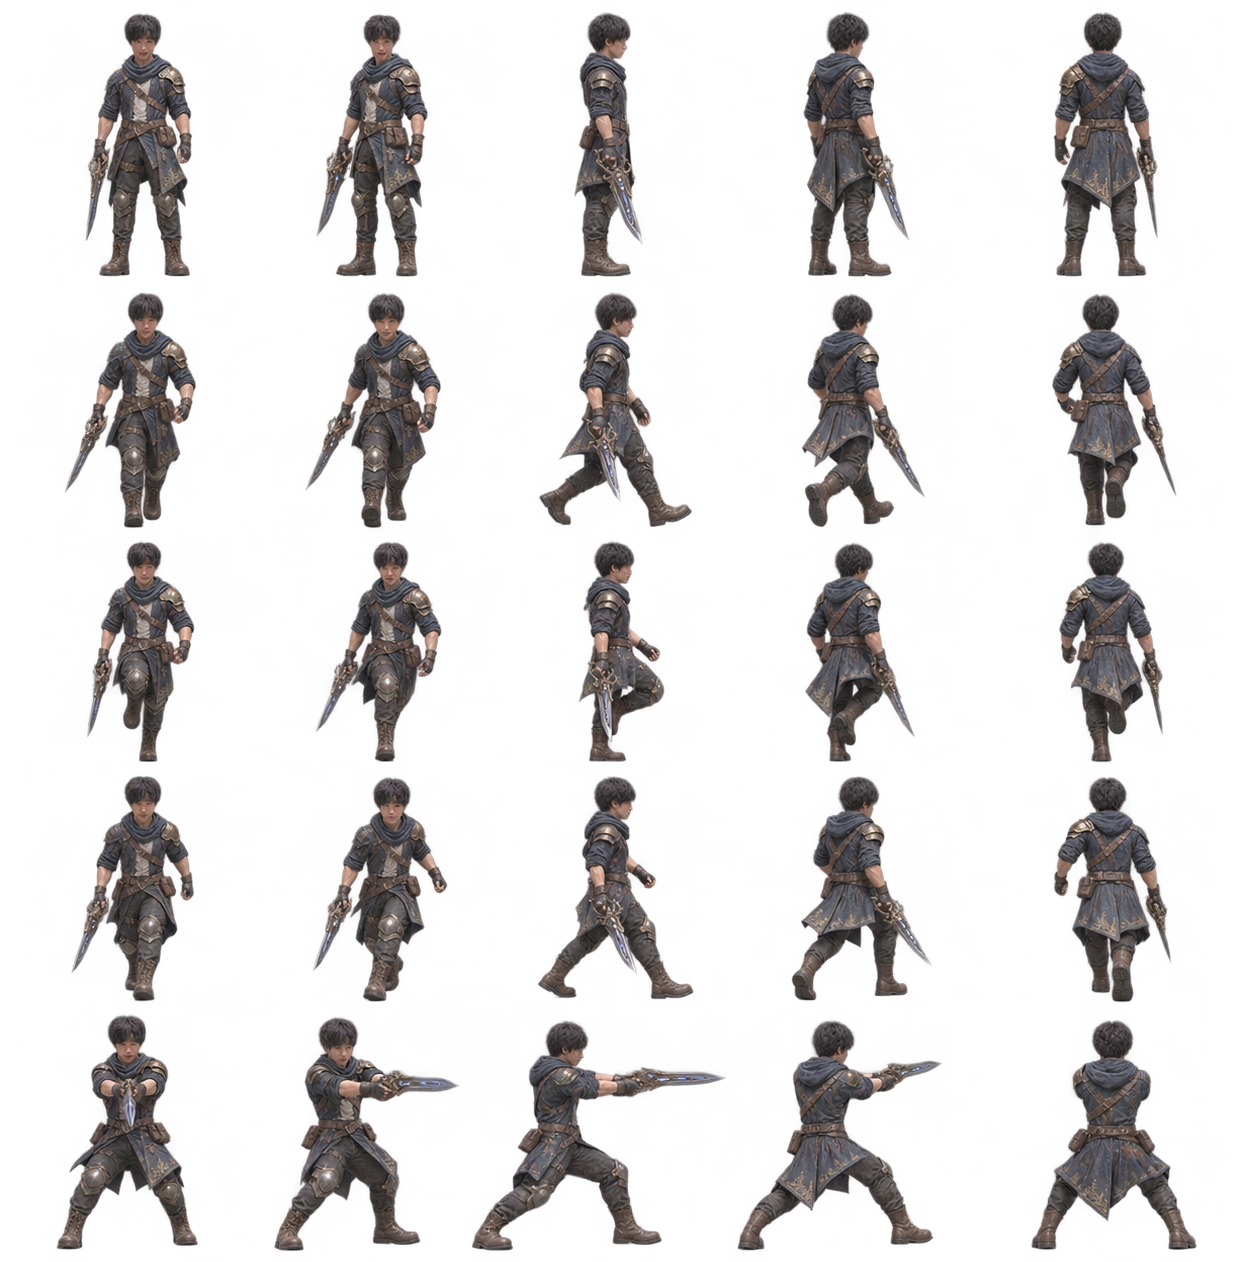
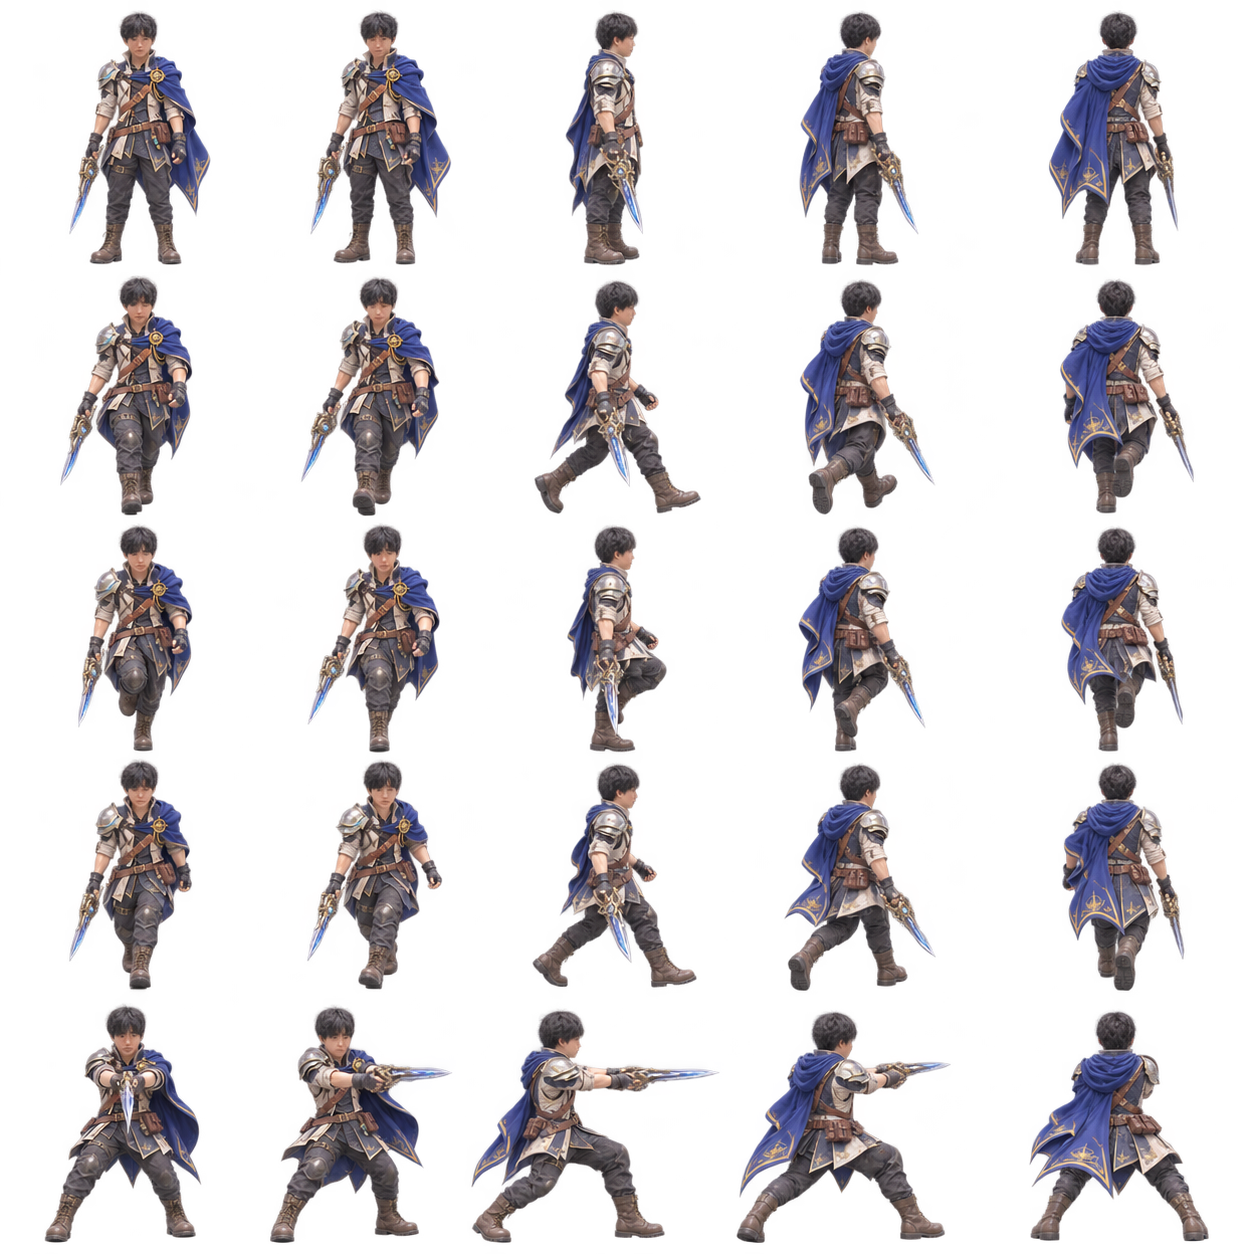
キャラクター変更

diff --git a/index.html b/index.html
@@ -5,15 +5,15 @@
 <meta charset="utf-8"/>
 <meta content="width=device-width, initial-scale=1, viewport-fit=cover" name="viewport"/>
 <title>常林暴サバイバー</title>
-<meta content="1.9.4" name="app-version"/>
-<link href="manifest.webmanifest?v=1.9.4" rel="manifest"/>
+<meta content="1.9.5" name="app-version"/>
+<link href="manifest.webmanifest?v=1.9.5" rel="manifest"/>
 <meta content="#101827" name="theme-color"/>
 <meta content="yes" name="mobile-web-app-capable"/>
 <meta content="yes" name="apple-mobile-web-app-capable"/>
 <meta content="常林暴" name="apple-mobile-web-app-title"/>
-<link href="apple-touch-icon.png?v=1.9.4" rel="apple-touch-icon"/>
-<link href="icon-192.png?v=1.9.4" rel="icon" type="image/png"/>
-<link href="style.css?v=1.9.4" rel="stylesheet"/>
+<link href="apple-touch-icon.png?v=1.9.5" rel="apple-touch-icon"/>
+<link href="icon-192.png?v=1.9.5" rel="icon" type="image/png"/>
+<link href="style.css?v=1.9.5" rel="stylesheet"/>
 <link href="https://fonts.googleapis.com/css2?family=Press+Start+2P&amp;family=Roboto:wght@700&amp;display=swap" rel="stylesheet"/>
 <script>
 // An update token is shared by HTML, CSS and local JavaScript, including unchanged filenames.
@@ -50,7 +50,7 @@ document.querySelectorAll('link[rel="stylesheet"]').forEach(link => {
 <p class="update-inline-status" data-update-status="" role="status"></p>
 <button data-info-dialog="overview-guide" type="button">ゲーム概要</button>
 <button data-info-dialog="play-guide" type="button">遊び方・用語ガイド</button>
-<button data-info-dialog="release-guide" hidden="" type="button"><span class="app-version">Ver.1.9.4</span> · 更新履歴</button>
+<button data-info-dialog="release-guide" hidden="" type="button"><span class="app-version">Ver.1.9.5</span> · 更新履歴</button>
 </div>
 <p aria-live="polite" class="status-message" id="auth-status"></p>
 <button class="install-game-button" type="button">ホーム画面に追加</button>
@@ -69,7 +69,7 @@ document.querySelectorAll('link[rel="stylesheet"]').forEach(link => {
 <div class="home-main">
 <section aria-label="選択中のキャラクター" class="home-character-panel">
 <p class="home-section-label">選択中のキャラクター</p>
-<div class="selected-character"><span class="hero-portrait" id="selected-character-image" aria-hidden="true" style="--hero-sheet:url('hero_rookie.png')"></span><span id="selected-character-name">見習い（基礎型）</span></div>
+<div class="selected-character"><span class="hero-portrait" id="selected-character-image" aria-hidden="true" style="--hero-sheet:url('hero_rookie.png?v=1.9.5')"></span><span id="selected-character-name">見習い（基礎型）</span></div>
 <p class="pop-note" id="home-next-goal"></p><button class="menu-btn" id="btn-equipment">装備ボックス</button><button class="menu-btn" id="btn-summon">召喚ガチャ（結晶 <span class="crystal-balance">0</span>）</button><button class="menu-btn" id="btn-training">キャラクター育成</button><button class="menu-btn shop-btn" id="btn-character">キャラクター選択</button>
 </section>
 <section aria-label="モード選択とメニュー" class="home-play-panel">
@@ -93,7 +93,7 @@ document.querySelectorAll('link[rel="stylesheet"]').forEach(link => {
 <p class="update-inline-status" data-update-status="" role="status"></p>
 <button data-info-dialog="overview-guide" type="button">ゲーム概要</button>
 <button data-info-dialog="play-guide" type="button">遊び方・用語ガイド</button>
-<button data-info-dialog="release-guide" hidden="" type="button"><span class="app-version">Ver.1.9.4</span> · 更新履歴</button>
+<button data-info-dialog="release-guide" hidden="" type="button"><span class="app-version">Ver.1.9.5</span> · 更新履歴</button>
 </div>
 <details class="home-settings"><summary>⚙ 設定・アカウント</summary><div class="settings-grid"><details class="control-settings"><summary>スマホ操作設定</summary>
 <label>スキルボタンの位置 <select id="control-side"><option value="right">右</option><option value="left">左</option></select></label>
@@ -310,24 +310,24 @@ document.querySelectorAll('link[rel="stylesheet"]').forEach(link => {
 <script src="https://www.gstatic.com/firebasejs/12.19.0/firebase-app-compat.js"></script>
 <script src="https://www.gstatic.com/firebasejs/12.19.0/firebase-auth-compat.js"></script>
 <script src="https://www.gstatic.com/firebasejs/12.19.0/firebase-firestore-compat.js"></script>
-<script data-game-src="firebase-config.js?v=1.9.4" type="application/json"></script>
-<script data-game-src="audio.js?v=1.9.4" type="application/json"></script>
-<script data-game-src="presentation.js?v=1.9.4" type="application/json"></script>
-<script data-game-src="stages.js?v=1.9.4" type="application/json"></script>
-<script data-game-src="equipment.js?v=1.9.4" type="application/json"></script>
-<script data-game-src="training.js?v=1.9.4" type="application/json"></script>
-<script data-game-src="adventure.js?v=1.9.4" type="application/json"></script>
-<script data-game-src="forge.js?v=1.9.4" type="application/json"></script>
-<script data-game-src="heroes.js?v=1.9.4" type="application/json"></script>
-<script data-game-src="skill-effects.js?v=1.9.4" type="application/json"></script>
-<script data-game-src="script.js?v=1.9.4" type="application/json"></script>
+<script data-game-src="firebase-config.js?v=1.9.5" type="application/json"></script>
+<script data-game-src="audio.js?v=1.9.5" type="application/json"></script>
+<script data-game-src="presentation.js?v=1.9.5" type="application/json"></script>
+<script data-game-src="stages.js?v=1.9.5" type="application/json"></script>
+<script data-game-src="equipment.js?v=1.9.5" type="application/json"></script>
+<script data-game-src="training.js?v=1.9.5" type="application/json"></script>
+<script data-game-src="adventure.js?v=1.9.5" type="application/json"></script>
+<script data-game-src="forge.js?v=1.9.5" type="application/json"></script>
+<script data-game-src="heroes.js?v=1.9.5" type="application/json"></script>
+<script data-game-src="skill-effects.js?v=1.9.5" type="application/json"></script>
+<script data-game-src="script.js?v=1.9.5" type="application/json"></script>
 <dialog aria-labelledby="install-guide-title" class="persistent-panel" id="install-guide"><header class="persistent-panel-header"><h2 id="install-guide-title">ホーム画面に追加</h2><form method="dialog"><button aria-label="ホーム画面に追加を閉じる" class="persistent-close" type="submit">✕ 閉じる</button></form></header><div class="persistent-panel-content">
 
 <p id="install-guide-text"></p>
 <p>追加後はアイコンから起動できます。ログイン・ランキングにはインターネット接続が必要です。初回は再ログインを求められる場合があります。</p>
 
 </div></dialog>
-<script data-game-src="install.js?v=1.9.4" type="application/json"></script>
+<script data-game-src="install.js?v=1.9.5" type="application/json"></script>
 <dialog aria-labelledby="play-guide-title" class="game-info-dialog persistent-panel" id="play-guide"><header class="persistent-panel-header"><h2 id="play-guide-title">遊び方・用語ガイド</h2><form method="dialog"><button aria-label="遊び方・用語ガイドを閉じる" class="persistent-close" type="submit">✕ 閉じる</button></form></header><div class="persistent-panel-content">
 
 <p class="guide-lead">迫ってくる敵を避け、ボスを倒してWAVE100クリアを目指そう！</p>
@@ -398,7 +398,8 @@ document.querySelectorAll('link[rel="stylesheet"]').forEach(link => {
 </div></dialog>
 <dialog aria-labelledby="release-guide-title" class="game-info-dialog persistent-panel" id="release-guide"><header class="persistent-panel-header"><h2 id="release-guide-title">更新履歴</h2><form method="dialog"><button aria-label="更新履歴を閉じる" class="persistent-close" type="submit">✕ 閉じる</button></form></header><div class="persistent-panel-content">
 
-<p class="guide-lead">いま開いている版：<strong class="app-version">Ver.1.9.4</strong></p>
+<p class="guide-lead">いま開いている版：<strong class="app-version">Ver.1.9.5</strong></p>
+<article><h3>Ver.1.9.5</h3><p>操作キャラ5人の衣装を刷新。ホーム・キャラクター選択・育成の立ち絵と、戦闘中の歩行・攻撃が同じ装いになりました。</p></article>
 <article><h3>Ver.1.9.4</h3><p>スマホで立ち絵の上に「？」が出る不具合を修正。キャラクター選択・ホーム・育成に反映。</p></article>
 <article><h3>Ver.1.9.3</h3><p>大型スキルの演出時間を延長。場面別BGM、4スキルの専用音、打楽器と環境音を追加。</p></article><article><h3>Ver.1.9.2</h3><p>各画面の閉じるボタンを右上に常時表示。4種類のスキル専用イラストと、発動時の専用エフェクトを追加。</p></article><article><h3>Ver.1.9.1</h3><p>8方向の移動・攻撃モーション、歩行の連続動作、3つの強化画面の専用イラストを追加。初期発射間隔を約1秒に調整。</p></article>
 <article><h3>Ver.1.9.0</h3><p>見習い＋4体のコイン解放。キャラ固有弾、方向・攻撃・被弾モーション、専用育成を追加。旧4体の専用育成・解放をリセットし、見習いから開始。コイン・装備・記録は継続。Firestoreルールの更新が必要です。</p></article>
@@ -484,14 +485,14 @@ document.querySelectorAll('link[rel="stylesheet"]').forEach(link => {
 <dialog aria-labelledby="equipment-probability-title" class="game-info-dialog equipment-dialog persistent-panel" id="equipment-probability-dialog"><header class="persistent-panel-header"><h2 id="equipment-probability-title">排出率・特殊スキルの付与確率</h2><form method="dialog"><button aria-label="排出率・特殊スキルの付与確率を閉じる" class="persistent-close">✕ 閉じる</button></form></header><div class="persistent-panel-content">
 <div class="equipment-probability-scroll" id="equipment-probability-content"></div>
 </div></dialog>
-<script data-game-src="guide.js?v=1.9.4" type="application/json"></script>
+<script data-game-src="guide.js?v=1.9.5" type="application/json"></script>
 <dialog aria-labelledby="update-game-title" class="game-info-dialog persistent-panel" id="update-game-dialog"><header class="persistent-panel-header"><h2 id="update-game-title">最新版に更新</h2><button aria-label="最新版に更新を閉じる" class="persistent-close" id="update-game-close" type="button">✕ 閉じる</button></header><div class="persistent-panel-content">
 
 <p aria-live="polite" id="update-game-status" role="status"></p>
 <p>ログイン情報・コイン・育成データは残ります。公開直後は、反映まで少し待ってから再度お試しください。</p>
 
 </div></dialog>
-<script data-game-src="update.js?v=1.9.4" type="application/json"></script>
+<script data-game-src="update.js?v=1.9.5" type="application/json"></script>
 <script>
 (async () => {
     for (const source of document.querySelectorAll('script[data-game-src]')) {

diff --git a/heroes.js b/heroes.js
@@ -14,7 +14,17 @@ function heroPurchase(id){
 }
 let heroFacing=0,heroShotUntil=0,heroHurtUntil=0,heroShots=0,heroAttackAngle=0,heroLastAwakened=-Infinity;
 function heroResetCombat(){heroFacing=0;heroShots=0;heroShotUntil=0;heroHurtUntil=0;heroLastAwakened=gameNow();heroSetPose();document.querySelectorAll('.hero-fx').forEach(e=>e.remove());}
-const HERO_MOTION_FRAMES={"rookie":{"size":[1246,1263],"frames":[[95,14,103,293],[335,14,96,294],[588,16,67,292],[817,16,82,291],[1051,16,101,291],[91,324,107,268],[332,327,101,264],[545,330,157,257],[810,329,108,262],[1050,328,109,263],[96,608,100,251],[335,607,98,252],[593,609,77,250],[818,610,94,248],[1048,609,103,249],[95,872,100,209],[332,872,109,209],[542,875,141,206],[787,876,122,204],[1053,875,101,206],[84,1092,125,168],[324,1093,124,167],[548,1094,151,166],[777,1093,140,166],[1039,1093,121,166]]},"balance":{"size":[1246,1262],"frames":[[85,13,108,264],[316,14,112,263],[574,13,69,264],[803,12,106,265],[1053,12,105,265],[65,292,132,236],[306,293,136,236],[539,293,153,235],[801,294,124,234],[1052,294,124,232],[87,541,108,222],[316,542,126,220],[579,542,86,220],[805,543,110,219],[1059,543,104,220],[71,776,123,226],[313,777,135,225],[537,776,157,224],[791,776,140,225],[1054,777,117,226],[56,1015,142,235],[274,1017,224,235],[498,1021,250,230],[748,1021,194,230],[1031,1020,166,231]]},"power":{"size":[1247,1261],"frames":[[88,10,106,242],[325,10,112,242],[566,10,97,242],[808,10,109,242],[1050,11,115,241],[85,263,123,238],[322,264,127,236],[543,265,130,233],[788,265,128,234],[1045,266,123,233],[87,510,118,239],[323,511,126,237],[545,512,119,236],[782,513,131,235],[1044,514,120,234],[86,762,125,237],[323,762,130,237],[536,762,135,236],[794,765,126,233],[1043,765,124,233],[60,1014,156,230],[298,1015,152,229],[499,1020,249,222],[748,1022,219,215],[1019,1017,169,224]]},"speed":{"size":[1246,1262],"frames":[[108,10,127,278],[335,10,124,279],[563,11,115,278],[794,10,126,279],[1028,11,117,277],[109,302,118,250],[334,302,114,250],[538,303,152,246],[778,303,137,248],[1030,303,110,247],[114,560,109,234],[336,560,110,234],[560,560,114,233],[783,561,124,233],[1028,561,106,233],[109,803,116,228],[326,803,121,228],[544,803,144,228],[778,804,129,227],[1031,803,105,228],[88,1043,144,211],[307,1043,145,212],[519,1044,203,212],[763,1044,162,211],[1013,1044,144,211]]},"tank":{"size":[1263,1246],"frames":[[84,10,129,241],[321,10,127,241],[593,10,81,241],[823,9,117,241],[1059,10,131,239],[70,263,148,236],[315,264,145,235],[565,266,139,229],[813,265,142,233],[1056,264,143,235],[73,511,139,234],[320,510,134,235],[591,511,98,234],[814,510,138,234],[1056,510,148,234],[70,755,144,231],[312,755,147,230],[557,755,149,225],[813,754,146,231],[1054,754,144,231],[58,1000,159,234],[307,996,167,239],[528,998,187,233],[779,1003,179,225],[1047,1002,164,230]]}};
+// Wardrobe art is cached once per page and follows the game's manual-update token.
+const HERO_ART_VERSION = '1.9.5';
+const heroArtUrls = new Map();
+function heroArtBackground(file) {
+    if (!heroArtUrls.has(file)) {
+        const src = gameAssetUrl(file + '?v=' + HERO_ART_VERSION);
+        heroArtUrls.set(file, 'url("' + src + '")');
+    }
+    return heroArtUrls.get(file);
+}
+const HERO_MOTION_FRAMES={"rookie":{"size":[1254,1254],"frames":[[92,46,114,256,47.8],[325,46,112,257,48.7],[588,47,57,256,49.1],[814,47,99,256,46.0],[1056,48,112,255,50.4],[75,323,127,244,52.0],[308,322,133,245,49.6],[529,324,174,240,49.7],[797,324,126,242,40.9],[1055,325,132,240,38.8],[89,577,114,231,52.6],[317,576,122,232,50.8],[580,578,89,228,35.0],[808,578,112,229,35.3],[1058,578,122,230,38.9],[79,816,122,224,50.8],[312,814,133,225,51.5],[529,819,174,219,50.3],[790,818,143,221,44.8],[1060,818,120,221,45.8],[65,1053,143,193,49.7],[287,1053,151,193,47.4],[491,1056,191,190,45.8],[744,1055,191,190,49.5],[1026,1054,169,191,49.7]]},"balance":{"size":[1254,1254],"frames":[[68,11,144,256,46.9],[309,10,144,257,45.8],[564,11,81,256,56.8],[798,11,122,256,49.2],[1047,10,133,257,53.0],[59,276,135,241,57.0],[299,276,142,242,51.1],[533,279,170,237,50.0],[798,279,138,237,38.8],[1058,278,138,237,39.9],[76,524,118,229,55.9],[306,524,136,230,53.3],[565,525,104,229,44.7],[797,526,130,227,37.7],[1059,526,126,227,42.9],[67,759,127,233,54.7],[305,759,139,232,52.5],[531,763,168,226,49.4],[783,762,154,231,41.6],[1060,762,126,231,45.2],[43,1004,160,241,48.1],[268,1005,186,240,40.6],[470,1009,251,236,38.8],[735,1010,217,235,48.2],[1028,1010,183,233,50.0]]},"power":{"size":[1254,1254],"frames":[[74,11,132,241,50.8],[311,11,127,241,53.1],[550,11,104,241,46.2],[785,10,118,243,47.9],[1031,11,125,242,49.2],[72,258,141,240,39.8],[313,260,136,235,39.3],[531,259,135,232,52.2],[764,261,141,232,51.4],[1029,261,126,236,63.5],[75,506,130,232,37.7],[313,508,126,230,39.3],[532,507,123,232,60.6],[771,507,133,232,60.2],[1030,508,122,231,65.2],[75,750,137,234,33.6],[309,750,141,229,38.1],[522,751,135,232,62.6],[772,750,133,233,54.9],[1019,751,135,233,66.3],[56,998,165,235,51.8],[289,999,158,234,60.8],[487,1004,230,228,38.3],[727,1004,227,227,43.2],[1002,1001,176,231,46.0]]},"speed":{"size":[1254,1254],"frames":[[87,10,126,266,45.6],[309,9,122,267,49.7],[548,10,115,267,45.7],[791,9,116,267,53.4],[1030,10,114,264,54.8],[86,282,127,261,45.3],[302,282,133,261,48.5],[525,283,161,259,49.4],[771,282,141,261,58.5],[1033,281,117,261,52.1],[92,547,113,244,42.9],[315,546,112,244,42.9],[544,546,117,243,38.9],[776,547,124,243,54.8],[1042,546,100,243,52.0],[90,794,117,238,42.3],[313,794,120,239,47.9],[529,794,151,238,49.0],[778,794,128,238,57.8],[1035,794,109,238,55.0],[71,1038,144,212,49.7],[295,1038,149,214,45.6],[512,1039,180,213,43.3],[758,1039,159,213,44.3],[1010,1038,158,213,49.7]]},"tank":{"size":[1254,1254],"frames":[[65,9,154,245,52.5],[309,8,150,246,49.3],[574,9,97,245,41.2],[799,9,132,244,48.9],[1036,9,151,244,45.7],[52,260,170,246,53.8],[299,260,161,245,52.2],[544,262,162,243,49.4],[790,260,156,246,45.8],[1034,260,159,246,48.1],[67,511,148,238,47.3],[317,510,142,238,56.7],[575,511,104,237,34.1],[796,512,138,236,34.4],[1037,513,155,235,51.3],[60,754,156,239,56.1],[298,754,161,239,54.4],[536,755,169,233,49.4],[797,756,152,237,39.1],[1034,756,155,237,44.9],[45,999,178,248,59.0],[292,994,180,254,44.7],[505,997,205,249,50.0],[758,1005,195,240,40.5],[1021,1003,186,242,52.7]]}};
 let heroMotionPhase=0,heroMotionLast=null,heroMotionKey='',heroMotionChanged=0,heroMotionPrevious=null;
 function heroDirection(dx,dy){return (Math.round(Math.atan2(dx,dy)/(Math.PI/4))+8)%8;}
 function heroDirectionSprite(direction){return {column:direction<=4?direction:8-direction,flip:direction>4};}
@@ -24,7 +34,7 @@ function heroMotionLayer(id){
 function heroPaintFrame(el,frame,bob,lean,recoil,opacity){
  const atlas=HERO_MOTION_FRAMES[frame.id],box=atlas.frames[frame.row*5+frame.column];
  const height=frame.row===4?80:88,scale=height/box[3];
- Object.assign(el.style,{width:box[2]*scale+'px',height:height+'px',backgroundImage:`url('motion_${frame.id}.png')`,backgroundSize:`${atlas.size[0]*scale}px ${atlas.size[1]*scale}px`,backgroundPosition:`${-box[0]*scale}px ${-box[1]*scale}px`,opacity:String(opacity),transform:`translate(-50%,-100%) translate(${recoil.x}px,${30+bob+recoil.y}px) rotate(${lean}deg) scaleX(${frame.flip?-1:1})`});
+ Object.assign(el.style,{width:box[2]*scale+'px',height:height+'px',backgroundImage:heroArtBackground('motion_'+frame.id+'.png'),backgroundSize:`${atlas.size[0]*scale}px ${atlas.size[1]*scale}px`,backgroundPosition:`${-box[0]*scale}px ${-box[1]*scale}px`,opacity:String(opacity),transformOrigin:`${box[4]}% 90%`,transform:`translate(${-box[4]}%,-100%) translate(${recoil.x}px,${30+bob+recoil.y}px) rotate(${lean}deg) scaleX(${frame.flip?-1:1})`});
  el.classList.toggle('hero-hurt',gameNow()<heroHurtUntil);
 }
 function heroDrawMotion(row,direction,bob=0,lean=0,recoil={x:0,y:0}){
@@ -49,12 +59,12 @@ function heroUpdateMotion(x,y){
  if(now<heroHurtUntil){if(!quiet){lean+=Math.sin((heroHurtUntil-now)*.07)*5;bob+=2;} }
  heroDrawMotion(row,direction,bob,lean,recoil);
 }
-// All portrait slots show the standing frame of the same 4 × 2 sheet.
+// The home, selection and training menus all use the same full-body portrait.
 // The adjacent text supplies the character's name; no placeholder <img> is needed.
 function heroPortrait(character, slot = document.createElement('span')) {
     slot.classList.add('hero-portrait');
     slot.setAttribute('aria-hidden', 'true');
-    slot.style.setProperty('--hero-sheet', `url("${gameAssetUrl(character.image)}")`);
+    slot.style.setProperty('--hero-sheet', heroArtBackground(character.image));
     return slot;
 }
 function heroEffect(el,id,column){

diff --git a/style.css b/style.css
@@ -1005,15 +1005,14 @@ body.lite-mode .equipment-icon-tile {box-shadow:none;}
 /* v1.9 hero sprites: preserve the existing player hitbox. */
 #hero-sprite {position:absolute;left:50%;top:50%;width:104px;height:104px;background-repeat:no-repeat;pointer-events:none;will-change:transform;}
 /* A real sprite, not a foreground <img>: Safari has no broken-image glyph to draw.
-   Preserve the slot dimensions on narrow screens; centre the square first cell. */
+   Keep the existing slot sizes and fit the full portrait, including the boots. */
 .hero-portrait {
     display:block; position:relative; flex:none; overflow:hidden; pointer-events:none;
     width:var(--portrait-height); height:var(--portrait-height);
 }
 .hero-portrait::before {
-    content:""; position:absolute; top:0; left:50%; transform:translateX(-50%);
-    width:var(--portrait-height); height:100%;
-    background:var(--hero-sheet) left top / 400% 200% no-repeat;
+    content:""; position:absolute; inset:0;
+    background:var(--hero-sheet) center bottom / contain no-repeat;
 }
 .hero-bullet {background-color:transparent!important;border-radius:0;box-shadow:none!important;background-repeat:no-repeat;}
 .hero-fx {position:absolute;z-index:24;pointer-events:none;background-repeat:no-repeat;animation:hero-impact .22s ease-out forwards;}

diff --git a/script.js b/script.js
@@ -744,7 +744,7 @@ function diagnosticError(error, stage, data) {
     const fields = data ? saveDiagnosticFields(data) : [];
     const result = new Error(error.message);
     result.code = error.code;
-    result.diagnostic = 'Ver.1.9.4 / ' + stage + '\nプロジェクト: ' + (typeof firebaseConfig !== 'undefined' ? firebaseConfig.projectId : '不明') + '\nエラー: ' + (error.code || 'unknown') + '\n' + error.message + (data ? '\n保存形式: ' + (fields.length ? fields.slice(0,12).join(', ') : '基本項目の不一致なし（サーバー側判定の確認が必要）') : '');
+    result.diagnostic = 'Ver.1.9.5 / ' + stage + '\nプロジェクト: ' + (typeof firebaseConfig !== 'undefined' ? firebaseConfig.projectId : '不明') + '\nエラー: ' + (error.code || 'unknown') + '\n' + error.message + (data ? '\n保存形式: ' + (fields.length ? fields.slice(0,12).join(', ') : '基本項目の不一致なし（サーバー側判定の確認が必要）') : '');
     result.message = result.diagnostic;
     return result;
 }
